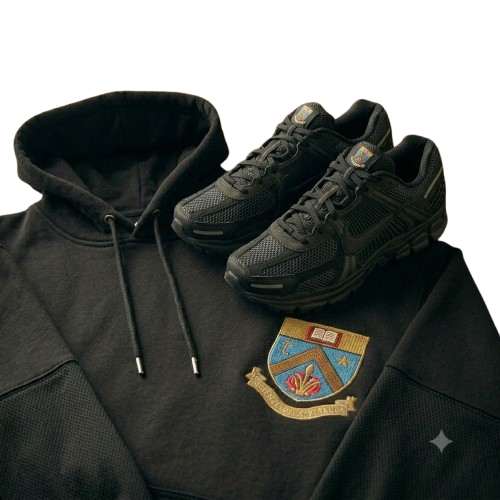
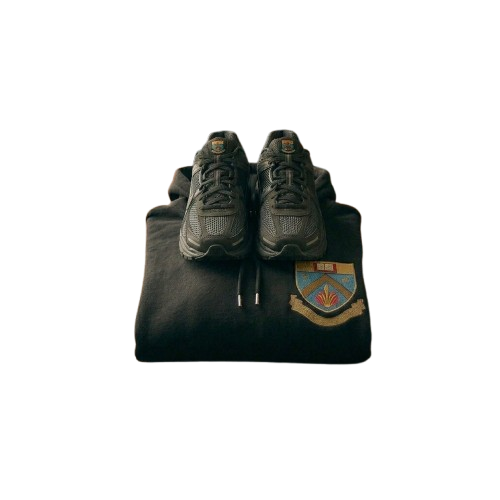
clothing image changed + scaled up

diff --git a/src/components/home/CategoryCard.tsx b/src/components/home/CategoryCard.tsx
@@ -26,7 +26,11 @@ export default function CategoryCard({
           <Image
             src={image}
             alt={title}
-            className="h-[70%] w-full object-contain transition-transform duration-500 group-hover:scale-105"
+            className={`h-[70%] w-full object-contain transition-transform duration-500 ${
+              title === "Clothing"
+                ? "scale-[1.65] group-hover:scale-[1.75]"
+                : "group-hover:scale-105"
+            }`}
             priority={false}
           />
         </div>